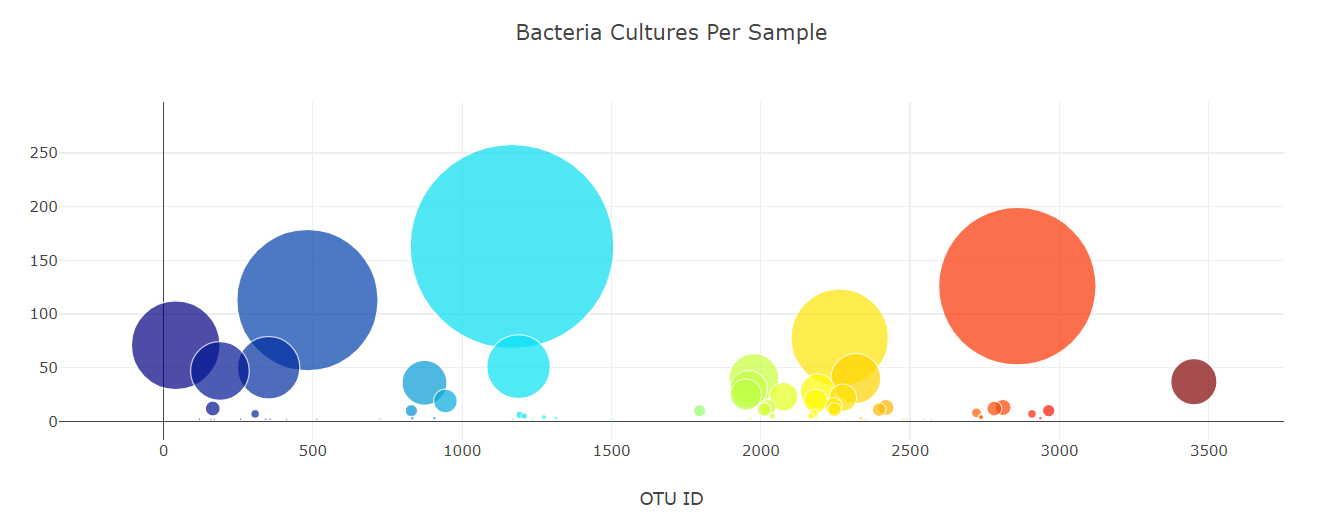
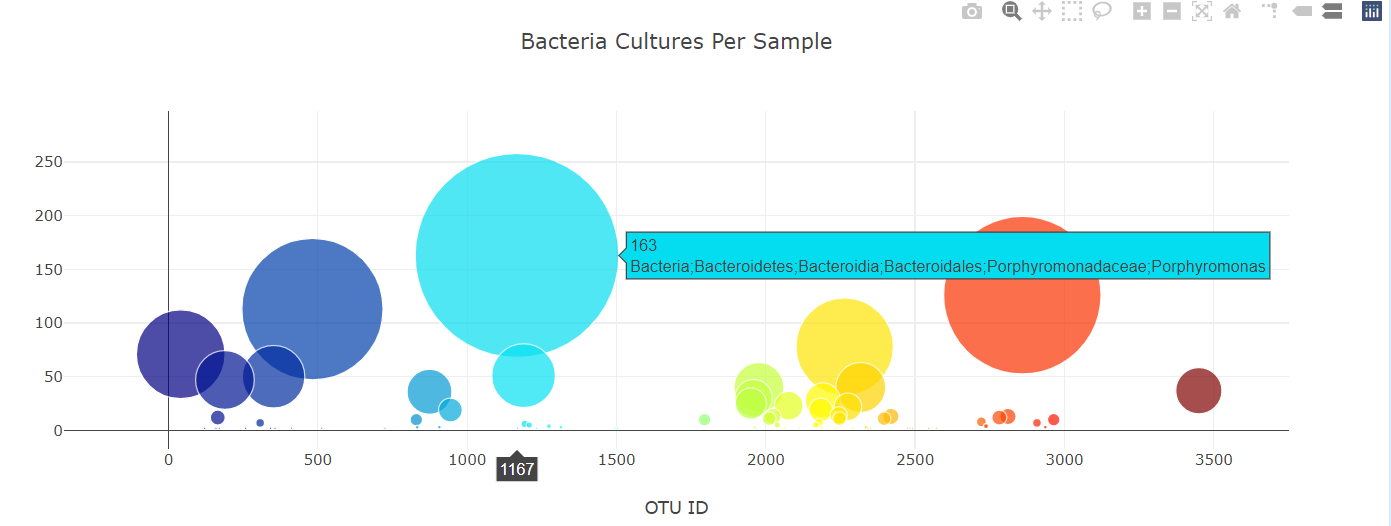
week12HM

diff --git a/README.md b/README.md
@@ -1,9 +1,15 @@
-# bellybutton.github.io
+# Belly Button Biodiversity Dashboard
+This project focuses on building an interactive dashboard with html, javascript Plotly. With the dash board, users can visualize the bacterial species living in the navel of candidates of a research about meat protein synthesis.
 Deliverable 1: Create a Horizontal Bar Chart
-![This is an image](https://myoctocat.com/assets/images/base-octocat.svg)
-Deliverable 2: Create a Bubble Chart
-![This is an image](https://myoctocat.com/assets/images/base-octocat.svg)
+![This is an image](https://github.com/Sirius0531/bellybutton.github.io/blob/main/images/bar.PNG)
+Deliverable 2: Create a Bubble Chart and Hoover 
+![This is an image](https://github.com/Sirius0531/bellybutton.github.io/blob/main/images/bubble.PNG)
 Deliverable 3: Create a Gauge Chart
-![This is an image](https://myoctocat.com/assets/images/base-octocat.svg)
+![This is an image](https://github.com/Sirius0531/bellybutton.github.io/blob/main/images/Gauge.PNG)
 Deliverable 4: Customize the Dashboard
-![This is an image](https://myoctocat.com/assets/images/base-octocat.svg)
+![This is an image](https://github.com/Sirius0531/bellybutton.github.io/blob/main/images/webpag.PNG)
+1. Website background color
+2. Head backgroud image
+3. Custom font, font name Sofia:https://fonts.google.com/specimen/Sofia
+
+Direct link to dashboard: https://sirius0531.github.io/bellybutton.github.io/
